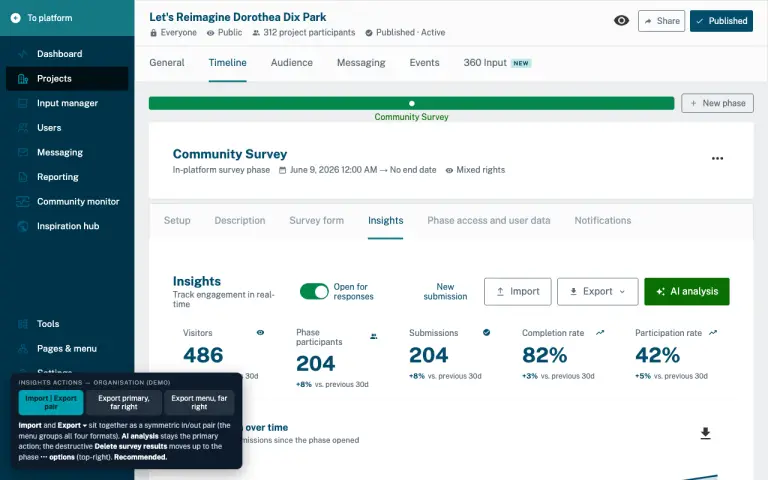
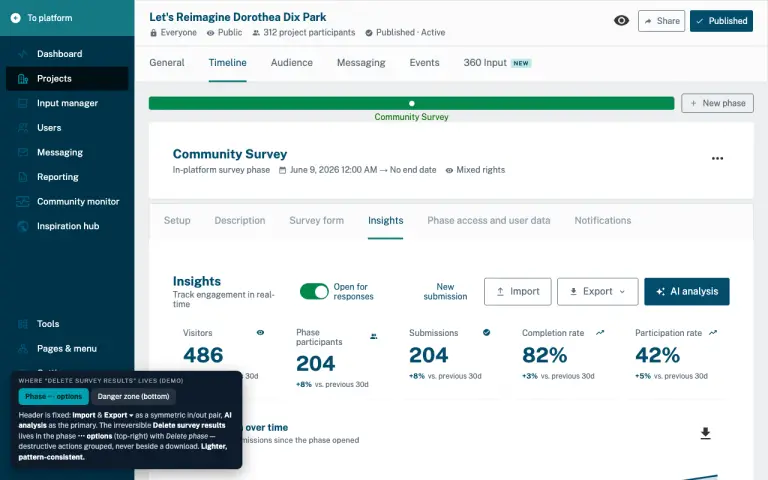
Survey Responses Export: separate exports from destructive delete
Reframe the Insights actions around user jobs rather than placement:
- Exports become one labelled Export ▾ (paired with Import as in/out),
  grouped by intent: per-respondent records / raw data / summary report
- The bare ⋯ junk-drawer is gone; AI analysis is the navy back-office
  primary at the far right
- Delete survey results is pulled out of the export surface entirely;
  switcher compares its two sane homes: phase ⋯ options vs an in-context
  danger zone at the bottom of Insights

Changed region(s): [[0.0, 0.75, 0.3125, 0.9688], [0.8125, 0.5625, 0.9688, 0.6562]]

diff --git a/playground/survey-responses-export/index.html b/playground/survey-responses-export/index.html
@@ -48,15 +48,17 @@
     .gv-bo-menu__sep { height: 1px; background: var(--gv-divider); margin: 5px 0; }
     .gv-bo-menu__lbl { font-size: 10px; letter-spacing: .06em; text-transform: uppercase; color: var(--gv-cool-grey-600); font-weight: 700; padding: 8px 15px 2px; }
 
-    /* CTA-mode visibility: A=grouped+overflow · B=grouped+phaseDelete · C=primary button */
-    [data-cta-show] { display: none !important; }
-    body[data-cta="A"] [data-cta-show~="A"],
-    body[data-cta="B"] [data-cta-show~="B"],
-    body[data-cta="C"] [data-cta-show~="C"] { display: inline-flex !important; }
-    [data-cta-item] { display: none !important; }
-    body[data-cta="A"] [data-cta-item~="A"],
-    body[data-cta="B"] [data-cta-item~="B"],
-    body[data-cta="C"] [data-cta-item~="C"] { display: flex !important; }
+    /* Delete-placement mode: phase ⋯ options vs in-context danger zone */
+    body:not([data-cta="phase"])  [data-when="phase"]  { display: none !important; }
+    body:not([data-cta="danger"]) [data-when="danger"] { display: none !important; }
+    /* in-context danger zone (GitHub-style) for the irreversible delete */
+    .sx-danger { margin: 26px 0 4px; border: 1px solid #f0c9c9; background: #fdf4f4; border-radius: 6px; padding: 15px 18px; display: flex; align-items: center; gap: 16px; max-width: 1000px; }
+    .sx-danger__main { flex: 1; }
+    .sx-danger__title { font-weight: 700; color: var(--gv-red-600, #b3261e); font-size: var(--gv-fs-base); }
+    .sx-danger__desc { font-size: var(--gv-fs-s); color: var(--gv-cool-grey-600); margin-top: 2px; }
+    .sx-dangerbtn { flex: none; border: 1px solid var(--gv-red-500); color: var(--gv-red-500); background: #fff; border-radius: var(--gv-radius); padding: 8px 14px; font: inherit; font-size: var(--gv-fs-s); font-weight: 600; cursor: pointer; display: inline-flex; align-items: center; gap: 7px; }
+    .sx-dangerbtn:hover { background: var(--gv-red-500); color: #fff; }
+    .sx-dangerbtn .gv-icon { width: 16px; height: 16px; }
 
     /* ── wide modal ──────────────────────────────────────────────────────────── */
     .sx-backdrop { position: fixed; inset: 0; background: rgba(7,26,43,.45); z-index: 200; display: flex; align-items: center; justify-content: center; padding: 28px 16px; }
@@ -141,7 +143,7 @@
     .sx-switch__desc b { color: #fff; }
   </style>
 </head>
-<body class="gv-bo" data-gv-screen="survey-phase/insights" data-cta="A">
+<body class="gv-bo" data-gv-screen="survey-phase/insights" data-cta="phase">
   <div class="gv-bo-shell">
 
     <nav class="gv-bo-side" aria-label="Admin">
@@ -218,8 +220,8 @@
                 <div class="gv-bo-menu" hidden>
                   <button class="gv-bo-menu__item" data-act="toast" data-msg="Edit phase."><span class="gv-bo-menu__icon" data-gv-icon="edit"></span>Edit phase</button>
                   <button class="gv-bo-menu__item" data-act="toast" data-msg="Copy phase."><span class="gv-bo-menu__icon" data-gv-icon="paperclip"></span>Copy phase</button>
-                  <div class="gv-bo-menu__sep" data-cta-item="A"></div>
-                  <button class="gv-bo-menu__item is-danger" data-cta-item="A" data-act="toast" data-msg="Delete survey results?"><span class="gv-bo-menu__icon" data-gv-icon="delete"></span>Delete survey results</button>
+                  <div class="gv-bo-menu__sep" data-when="phase"></div>
+                  <button class="gv-bo-menu__item is-danger" data-when="phase" data-act="toast" data-msg="Delete survey results? (would confirm)"><span class="gv-bo-menu__icon" data-gv-icon="delete"></span>Delete survey results</button>
                   <div class="gv-bo-menu__sep"></div>
                   <button class="gv-bo-menu__item is-danger" data-act="toast" data-msg="Delete phase?"><span class="gv-bo-menu__icon" data-gv-icon="delete"></span>Delete phase</button>
                 </div>
@@ -244,53 +246,25 @@
                   <p class="gv-bo-help" style="margin:2px 0 0">Track engagement in real-time</p>
                 </div>
                 <div class="sx-actions">
-
-                  <!-- overflow ⋯ : holds aggregate downloads (B) + the destructive Delete (B, C) -->
-                  <div class="sx-menuwrap" data-cta-show="B C">
-                    <button class="gv-iconbtn" data-menu-trigger aria-label="More actions" aria-haspopup="true"><span data-gv-icon="dots-horizontal"></span></button>
-                    <div class="gv-bo-menu" hidden>
-                      <button class="gv-bo-menu__item" data-cta-item="B" data-act="toast" data-msg="Preparing .xlsx export…"><span class="gv-bo-menu__icon" data-gv-icon="download"></span>Download survey results (.xlsx)</button>
-                      <button class="gv-bo-menu__item" data-cta-item="B" data-act="toast" data-msg="Preparing insights PDF…"><span class="gv-bo-menu__icon" data-gv-icon="download"></span>Download insights as PDF</button>
-                      <button class="gv-bo-menu__item" data-cta-item="B" data-act="toast" data-msg="Preparing Word document…"><span class="gv-bo-menu__icon" data-gv-icon="download"></span>Download as Word<span class="sx-betatag">BETA</span></button>
-                      <div class="gv-bo-menu__sep" data-cta-item="B"></div>
-                      <button class="gv-bo-menu__item is-danger" data-cta-item="B C" data-act="toast" data-msg="Delete survey results?"><span class="gv-bo-menu__icon" data-gv-icon="delete"></span>Delete survey results</button>
-                    </div>
-                  </div>
-
                   <label class="sx-openpill"><span class="gv-toggle"><input type="checkbox" checked><span class="track"></span></span>Open for responses</label>
                   <button class="sx-linkbtn" data-act="toast" data-msg="Add a submission on behalf of a participant.">New submission</button>
+                  <!-- collect (in) ▸ Import — paired with its symmetric counterpart, Export (out) -->
                   <button class="gv-btn secondary-outlined" data-act="toast" data-msg="Import responses from a file."><svg width="16" height="16" viewBox="0 0 24 24" fill="none" stroke="currentColor" stroke-width="2" stroke-linecap="round" stroke-linejoin="round"><path d="M12 15V3"/><path d="m7 8 5-5 5 5"/><path d="M5 21h14"/></svg><span class="gv-btn__label">Import</span></button>
-
-                  <!-- option A: Export ▾ paired right after Import (secondary, mirrors Import) -->
-                  <div class="sx-menuwrap" data-cta-show="A">
+                  <!-- Export ▾ : one labelled menu, grouped by what you'd DO with the file -->
+                  <div class="sx-menuwrap">
                     <button class="gv-btn secondary-outlined" data-menu-trigger><span data-gv-icon="download"></span><span class="gv-btn__label">Export</span><span data-gv-icon="chevron-down"></span></button>
                     <div class="gv-bo-menu" hidden>
-                      <div class="gv-bo-menu__lbl">Individual responses</div>
-                      <button class="gv-bo-menu__item is-new" data-open-export><span class="gv-bo-menu__icon" data-gv-icon="download"></span>Export individual responses (PDF)…<span class="sx-newtag">NEW</span></button>
-                      <div class="gv-bo-menu__lbl">Aggregate</div>
+                      <div class="gv-bo-menu__lbl">Per-respondent records</div>
+                      <button class="gv-bo-menu__item is-new" data-open-export><span class="gv-bo-menu__icon" data-gv-icon="download"></span>Individual responses (PDF)…<span class="sx-newtag">NEW</span></button>
+                      <div class="gv-bo-menu__lbl">Raw data</div>
                       <button class="gv-bo-menu__item" data-act="toast" data-msg="Preparing .xlsx export…"><span class="gv-bo-menu__icon" data-gv-icon="download"></span>Survey results (.xlsx)</button>
+                      <div class="gv-bo-menu__lbl">Summary report</div>
                       <button class="gv-bo-menu__item" data-act="toast" data-msg="Preparing insights PDF…"><span class="gv-bo-menu__icon" data-gv-icon="download"></span>Insights summary (PDF)</button>
                       <button class="gv-bo-menu__item" data-act="toast" data-msg="Preparing Word document…"><span class="gv-bo-menu__icon" data-gv-icon="download"></span>Insights summary (Word)<span class="sx-betatag">BETA</span></button>
                     </div>
                   </div>
-
-                  <button class="gv-btn success" data-act="toast" data-msg="Run AI analysis over the responses."><span data-gv-icon="stars"></span><span class="gv-btn__label">AI analysis</span></button>
-
-                  <!-- option B: the new export as a dedicated back-office-primary button, far right -->
-                  <button class="gv-btn admin-dark" data-open-export data-cta-show="B"><span data-gv-icon="download"></span><span class="gv-btn__label">Export responses</span></button>
-
-                  <!-- option C: labelled Export ▾ grouping ALL formats, far right -->
-                  <div class="sx-menuwrap" data-cta-show="C">
-                    <button class="gv-btn admin-dark" data-menu-trigger><span data-gv-icon="download"></span><span class="gv-btn__label">Export</span><span data-gv-icon="chevron-down"></span></button>
-                    <div class="gv-bo-menu" hidden>
-                      <div class="gv-bo-menu__lbl">Individual responses</div>
-                      <button class="gv-bo-menu__item is-new" data-open-export><span class="gv-bo-menu__icon" data-gv-icon="download"></span>Export individual responses (PDF)…<span class="sx-newtag">NEW</span></button>
-                      <div class="gv-bo-menu__lbl">Aggregate</div>
-                      <button class="gv-bo-menu__item" data-act="toast" data-msg="Preparing .xlsx export…"><span class="gv-bo-menu__icon" data-gv-icon="download"></span>Survey results (.xlsx)</button>
-                      <button class="gv-bo-menu__item" data-act="toast" data-msg="Preparing insights PDF…"><span class="gv-bo-menu__icon" data-gv-icon="download"></span>Insights summary (PDF)</button>
-                      <button class="gv-bo-menu__item" data-act="toast" data-msg="Preparing Word document…"><span class="gv-bo-menu__icon" data-gv-icon="download"></span>Insights summary (Word)<span class="sx-betatag">BETA</span></button>
-                    </div>
-                  </div>
+                  <!-- AI analysis : the single back-office-primary action, far right -->
+                  <button class="gv-btn admin-dark" data-act="toast" data-msg="Run AI analysis over the responses."><span data-gv-icon="stars"></span><span class="gv-btn__label">AI analysis</span></button>
                 </div>
               </div>
 
@@ -317,7 +291,16 @@
 
               <h4 class="gv-bo-subhead" style="margin-top:22px">Questions</h4>
               <p class="pp-lede">Total 204 responses · 7 questions across 1 page</p>
-              <div class="sx-note"><span class="gv-icon" data-gv-icon="info-solid" style="color:var(--gv-blue-500)"></span><div>Per-question result charts render here. Use the switcher (bottom-left) to compare how the export CTA — and the destructive “Delete survey results” — are organised in this header.</div></div>
+              <div class="sx-note"><span class="gv-icon" data-gv-icon="info-solid" style="color:var(--gv-blue-500)"></span><div>Per-question result charts render here. Use the switcher (bottom-left) to compare where the irreversible “Delete survey results” lives — phase ⋯ options vs an in-context danger zone.</div></div>
+
+              <!-- option: in-context danger zone for the irreversible delete -->
+              <div class="sx-danger" data-when="danger">
+                <div class="sx-danger__main">
+                  <div class="sx-danger__title">Delete survey results</div>
+                  <div class="sx-danger__desc">Permanently removes all 204 responses from this phase. Already-downloaded exports are unaffected. This can’t be undone.</div>
+                </div>
+                <button class="sx-dangerbtn" data-act="toast" data-msg="Delete survey results? (would confirm)"><span class="gv-icon" data-gv-icon="delete"></span>Delete survey results</button>
+              </div>
             </div>
           </div>
         </div>
@@ -396,11 +379,10 @@
 
   <!-- holistic CTA-organisation switcher -->
   <div class="sx-switch">
-    <span class="sx-switch__lab">Insights actions — organisation (demo)</span>
+    <span class="sx-switch__lab">Where “Delete survey results” lives (demo)</span>
     <div class="sx-switch__opts">
-      <button data-cta="A" class="is-on">Import | Export pair</button>
-      <button data-cta="B">Export primary, far right</button>
-      <button data-cta="C">Export menu, far right</button>
+      <button data-cta="phase" class="is-on">Phase ⋯ options</button>
+      <button data-cta="danger">Danger zone (bottom)</button>
     </div>
     <p class="sx-switch__desc" id="switchDesc"></p>
   </div>
@@ -434,9 +416,8 @@
     ];
     const TOTAL = 204;
     const DESC = {
-      A: '<b>Import</b> and <b>Export ▾</b> sit together as a symmetric in/out pair (the menu groups all four formats). <b>AI analysis</b> stays the primary action; the destructive <b>Delete survey results</b> moves up to the phase <b>⋯ options</b> (top-right). <b>Recommended.</b>',
-      B: 'The new export is a dedicated back-office-primary <b>Export responses</b> button at the far right. The aggregate downloads <i>and</i> <b>Delete</b> stay in a small Insights <b>⋯</b> — most prominent for the new feature, but two “export” entry points.',
-      C: 'A labelled <b>Export ▾</b> at the far right groups all four formats; a small <b>⋯</b> overflow keeps only <b>Delete survey results</b>.'
+      phase: 'Header is fixed: <b>Import</b> &amp; <b>Export ▾</b> as a symmetric in/out pair, <b>AI analysis</b> as the primary. The irreversible <b>Delete survey results</b> lives in the phase <b>⋯ options</b> (top-right) with <i>Delete phase</i> — destructive actions grouped, never beside a download. <b>Lighter, pattern-consistent.</b>',
+      danger: 'Same header. <b>Delete survey results</b> instead gets an explicit <b>danger zone</b> at the bottom of Insights — most discoverable on the results page, clearly marked, impossible to mistake for an export. <b>Safest.</b>'
     };
     const $ = (s,r)=>(r||document).querySelector(s), $$=(s,r)=>Array.from((r||document).querySelectorAll(s));
     const esc = s => { const d=document.createElement('div'); d.textContent=s; return d.innerHTML; };
@@ -462,7 +443,7 @@
       $$('.sx-switch button').forEach(x=>x.classList.toggle('is-on', x===b));
       setDesc(b.dataset.cta); closeMenus();
     }));
-    setDesc('A');
+    setDesc('phase');
 
     // ── field rows ──
     function badge(on){ return '<span class="sx-badge '+(on?'in':'ex')+'">'+(on?'INCLUDED':'EXCLUDED')+'</span>'; }
